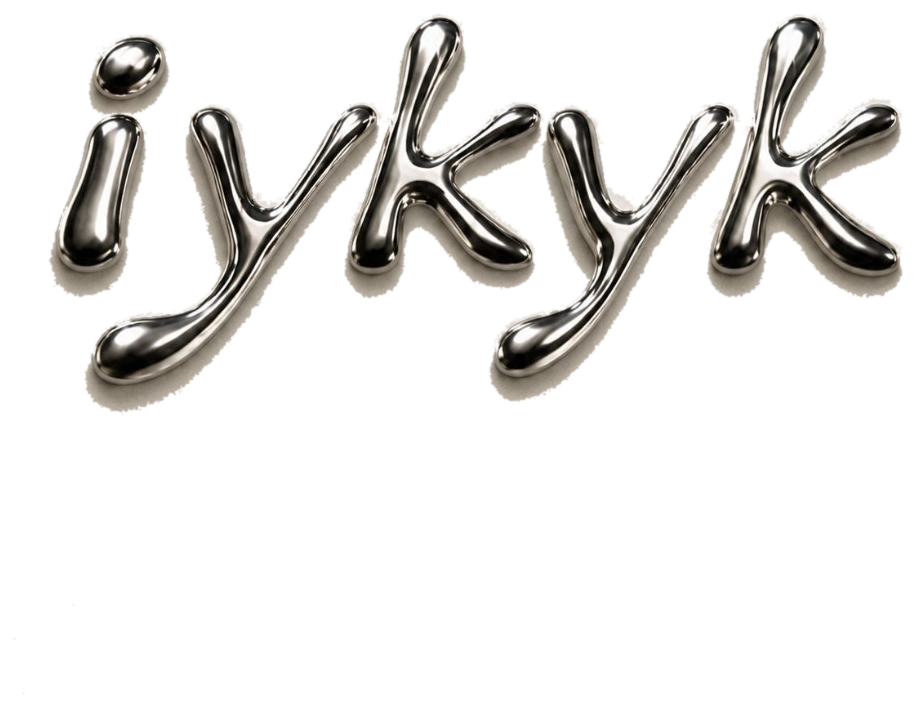
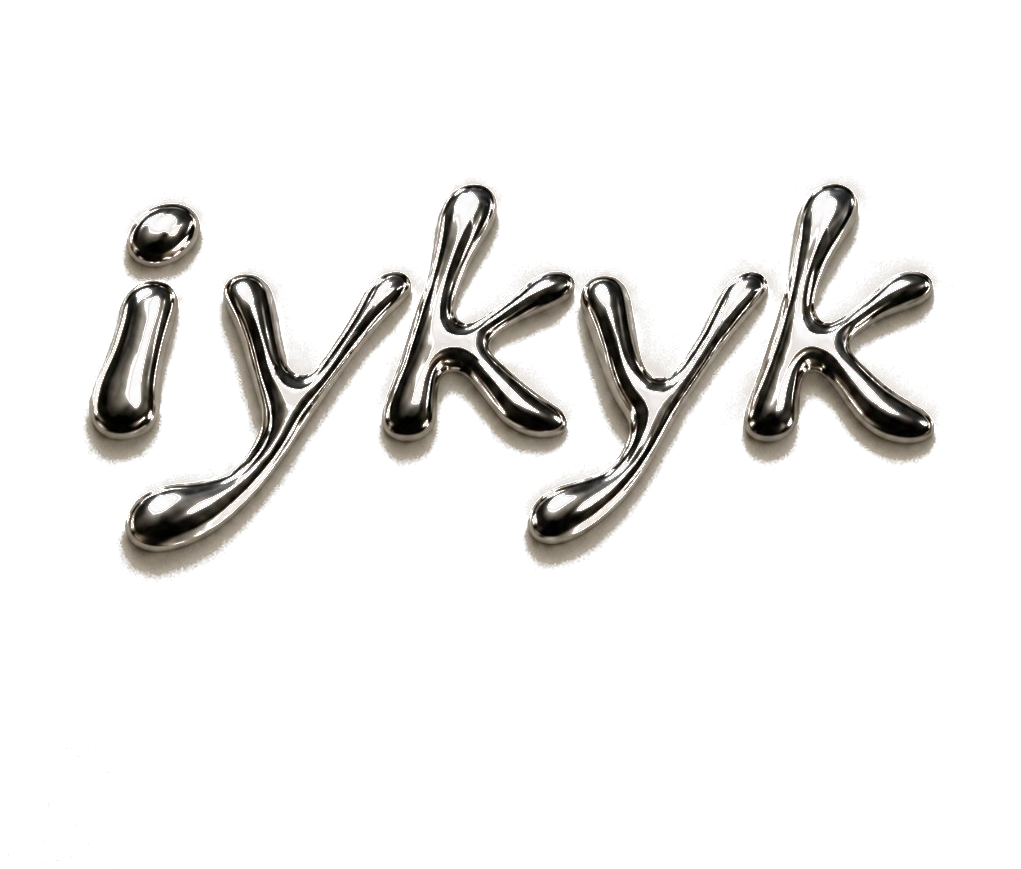
Fix profile hero scrim, sharpen silver headlines, clean wordmark shadow, drop phone caret

Changed region(s): [[0.0306, 0.0, 1.0, 0.688]]

diff --git a/app/app/(tabs)/profile.tsx b/app/app/(tabs)/profile.tsx
@@ -122,30 +122,29 @@ function ProfileScreen() {
       <ScrollView contentContainerStyle={styles.container}>
         <View style={styles.hero}>
           {photo ? (
-            <Image source={{ uri: photo }} style={StyleSheet.absoluteFill} resizeMode="cover" />
+            <>
+              <Image source={{ uri: photo }} style={StyleSheet.absoluteFill} resizeMode="cover" />
+              {/* Scrims only exist WITH a photo: a top darkener for the buttons
+                  and a fade that melts the photo into the paper canvas. Without
+                  a photo neither renders, so the hero is just the avatar on
+                  paper — no stray grey band. */}
+              <LinearGradient
+                colors={['rgba(0,0,0,0.45)', 'transparent']}
+                style={styles.topScrim}
+                pointerEvents="none"
+              />
+              <LinearGradient
+                colors={['transparent', 'transparent', colors.bg]}
+                locations={[0, 0.4, 0.72]}
+                style={StyleSheet.absoluteFill}
+                pointerEvents="none"
+              />
+            </>
           ) : (
             <View style={styles.heroFallback}>
-              <Avatar name={profile.name} image={null} size={160} />
+              <Avatar name={profile.name} image={null} size={140} />
             </View>
           )}
-          {/* Top scrim keeps the buttons legible over a busy photo — only
-              needed when there actually is one (it would read as a stray grey
-              band on the plain fallback). */}
-          {photo ? (
-            <LinearGradient
-              colors={['rgba(0,0,0,0.45)', 'transparent']}
-              style={styles.topScrim}
-              pointerEvents="none"
-            />
-          ) : null}
-          {/* Photo fades fully into the page background high up, so it ends
-              well above the name — nothing bleeds down behind the stats. */}
-          <LinearGradient
-            colors={['transparent', 'transparent', colors.bg]}
-            locations={[0, 0.4, 0.72]}
-            style={StyleSheet.absoluteFill}
-            pointerEvents="none"
-          />
 
           <View style={[styles.heroButtons, { top: insets.top + spacing.sm }]}>
             <Pressable
@@ -233,14 +232,15 @@ const styles = StyleSheet.create({
     height: 360,
     width: '100%',
     justifyContent: 'flex-end',
-    backgroundColor: colors.bg,
+    // Transparent so the paper texture shows through — no flat block/bar.
+    backgroundColor: 'transparent',
     overflow: 'hidden',
     // Nudge the photo down from the very top so it isn't glued to the edge.
     marginTop: spacing.xl,
   },
   heroFallback: {
     ...StyleSheet.absoluteFillObject,
-    backgroundColor: colors.card,
+    // No fill — just the avatar centered on the paper canvas.
     alignItems: 'center',
     justifyContent: 'center',
     // Sit the avatar low in the hero, close to the name below it.
@@ -264,9 +264,10 @@ const styles = StyleSheet.create({
     width: 40,
     height: 40,
     borderRadius: 20,
-    backgroundColor: 'rgba(0,0,0,0.35)',
+    // Light glass so it reads on both the paper canvas and over a photo.
+    backgroundColor: 'rgba(255,255,255,0.7)',
     borderWidth: 1,
-    borderColor: 'rgba(255,255,255,0.18)',
+    borderColor: 'rgba(0,0,0,0.10)',
     alignItems: 'center',
     justifyContent: 'center',
   },

diff --git a/app/components/ChromeText.tsx b/app/components/ChromeText.tsx
@@ -1,15 +1,14 @@
 import React from 'react';
-import { Platform, StyleSheet, Text, type TextStyle, View } from 'react-native';
-import MaskedView from '@react-native-masked-view/masked-view';
-import { LinearGradient } from 'expo-linear-gradient';
-import { chrome, colors } from '../lib/theme';
+import { StyleSheet, Text, type TextStyle } from 'react-native';
 
-// A real polished-chrome headline: the text is used as a mask over a vertical
-// steel gradient. Reserved for LARGE display type — on small/body text a chrome
-// gradient washes out and hurts legibility, so those stay graphite (colors.text).
+// A metallic silver headline that stays pixel-sharp on every platform.
 //
-// The gradient's dark middle band keeps big headlines readable on the light
-// paper canvas; a faint drop shadow grounds the letters.
+// The earlier MaskedView + LinearGradient version looked soft in Expo Go: the
+// text mask is rasterised (and the grounding drop-shadow added a halo), so the
+// letters blurred. Sharpness/legibility matter more than a literal gradient, so
+// large headlines now use native text rendering with a solid steel colour plus
+// a crisp 1px light bevel (a hard highlight, radius 0 — no blur). It reads as
+// brushed metal while staying perfectly crisp. API is unchanged.
 export function ChromeText({
   children,
   style,
@@ -19,47 +18,21 @@ export function ChromeText({
   style?: TextStyle | TextStyle[];
   numberOfLines?: number;
 }) {
-  const flat = StyleSheet.flatten(style) || {};
-  // The mask must be opaque where letters are; colour is irrelevant.
-  const maskTextStyle: TextStyle = { ...flat, color: '#000' };
-  // The sizing text under the gradient is invisible but reserves the layout.
-  const ghostTextStyle: TextStyle = { ...flat, opacity: 0 };
-
   return (
-    <View style={styles.wrap}>
-      <MaskedView
-        maskElement={
-          <Text style={maskTextStyle} numberOfLines={numberOfLines}>
-            {children}
-          </Text>
-        }
-      >
-        <LinearGradient
-          colors={[...chrome]}
-          start={{ x: 0, y: 0 }}
-          end={{ x: 0, y: 1 }}
-        >
-          <Text style={ghostTextStyle} numberOfLines={numberOfLines}>
-            {children}
-          </Text>
-        </LinearGradient>
-      </MaskedView>
-    </View>
+    <Text style={[style, styles.metalOverride]} numberOfLines={numberOfLines}>
+      {children}
+    </Text>
   );
 }
 
 const styles = StyleSheet.create({
-  wrap: {
-    // A soft graphite shadow under the metal so headlines keep an edge on the
-    // bright paper (native only; harmless elsewhere).
-    ...Platform.select({
-      ios: {
-        shadowColor: colors.accentDark,
-        shadowOpacity: 0.25,
-        shadowRadius: 3,
-        shadowOffset: { width: 0, height: 1 },
-      },
-      default: {},
-    }),
+  // Applied AFTER the caller's style so the metal colour + crisp bevel win,
+  // while size/font/tracking from the caller are preserved.
+  metalOverride: {
+    color: '#565C66', // steel graphite — metallic, high-contrast on paper
+    // Hard 1px highlight below each stroke → embossed metal, no blur.
+    textShadowColor: 'rgba(255,255,255,0.6)',
+    textShadowOffset: { width: 0, height: 1 },
+    textShadowRadius: 0,
   },
 });

diff --git a/app/app/(auth)/phone.tsx b/app/app/(auth)/phone.tsx
@@ -98,7 +98,6 @@ export default function PhoneScreen() {
                 hitSlop={10}
               >
                 <Text style={styles.phonePrefix}>{country.flag} {country.code}</Text>
-                <Text style={styles.phoneCaret}>▾</Text>
               </Pressable>
               <TextInput
                 value={digits}
@@ -208,7 +207,7 @@ const styles = StyleSheet.create({
     justifyContent: 'center',
     gap: spacing.sm,
   },
-  // Borderless inline country prefix (e.g. "🇩🇪 +49 ▾") — no box/bubble.
+  // Borderless inline country prefix (e.g. "🇩🇪 +49") — no box/bubble.
   countryInline: {
     flexDirection: 'row',
     alignItems: 'center',
@@ -218,10 +217,6 @@ const styles = StyleSheet.create({
   phonePrefix: {
     color: colors.text,
     ...uiText(30),
-  },
-  phoneCaret: {
-    color: colors.muted,
-    fontSize: 14,
   },
   // Borderless inline phone field — plain text on the canvas, no box.
   phoneInputInline: {
